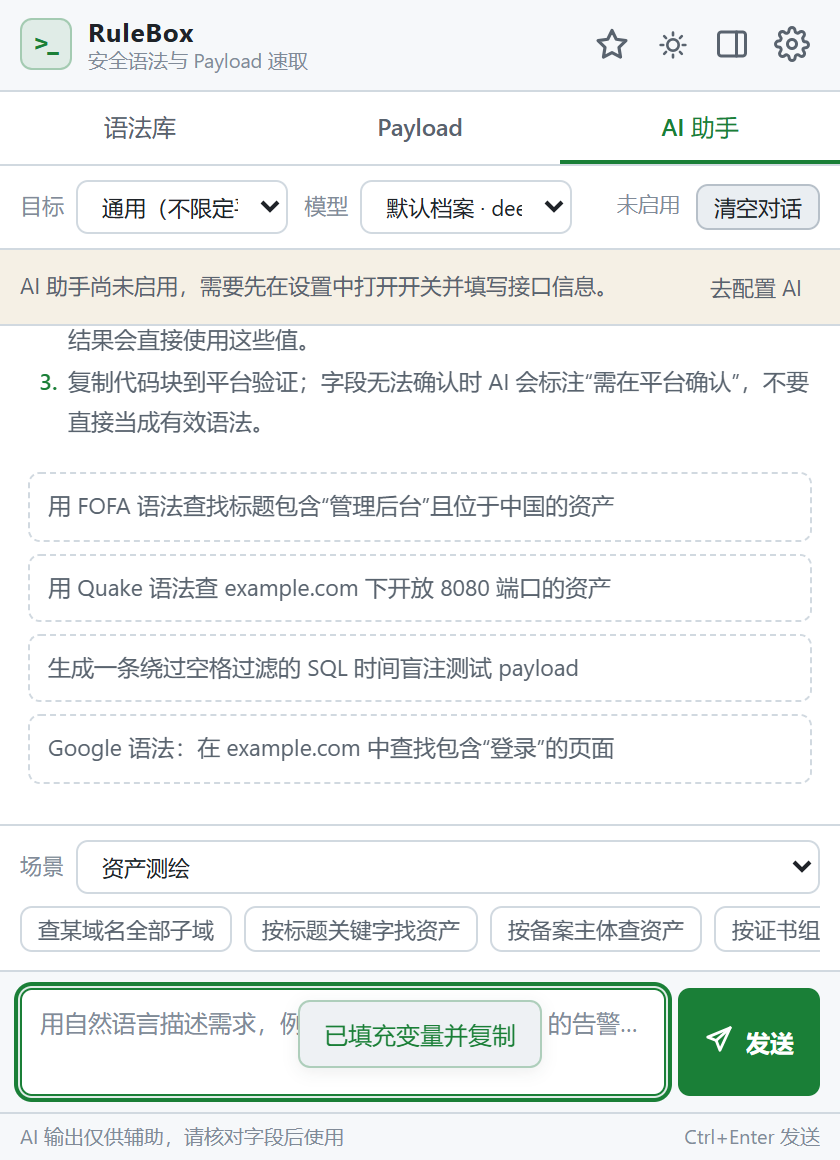
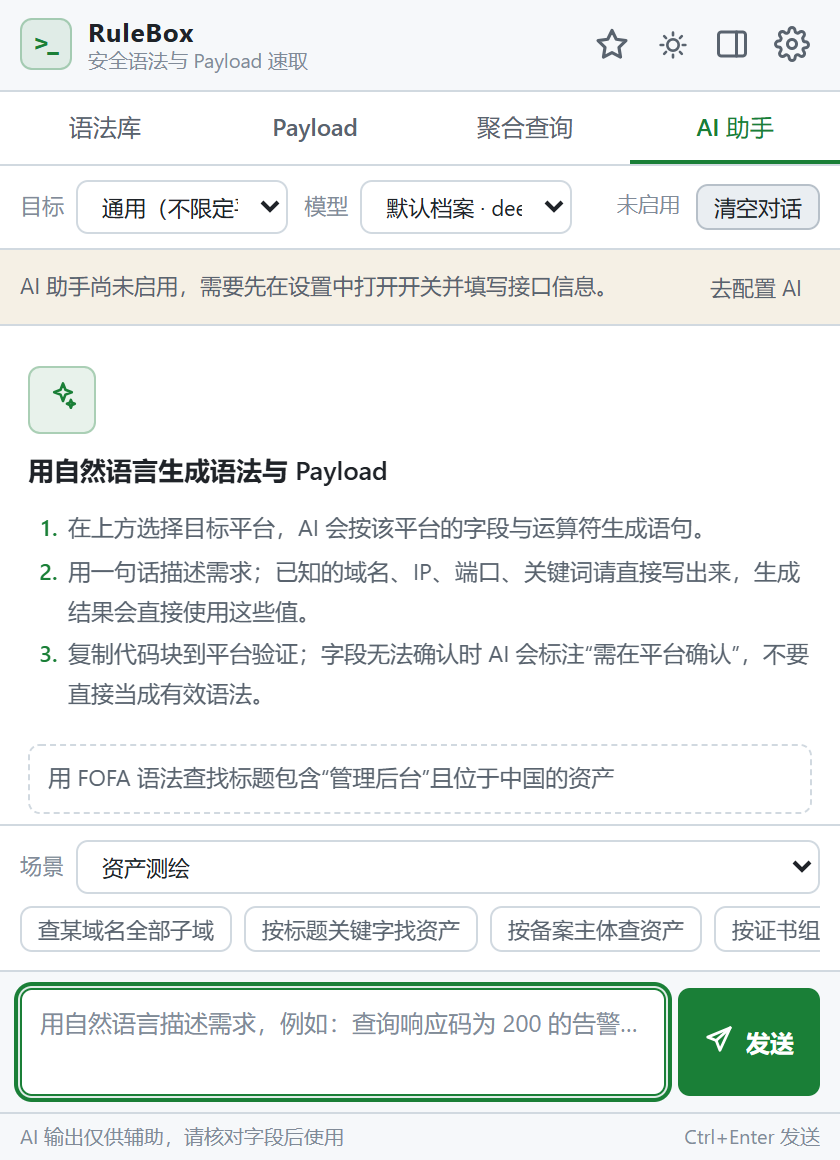
docs(README): 完善 2.0 文档并更新全部界面截图与演示动图
- README 补充 v2.0 新增能力说明：聚合查询、JSON/CSV/Markdown/TXT 多格式导出、
  默认打开方式（跟随上次使用 / 固定标签页）、配置重置问题修复
- 更新内置数据统计为 802 条语法 / 252 条 Payload / 20 条提示词
- 新增聚合查询、测绘查询设置分区、AI 助手等 2.0 界面截图（深色 + 浅色）
- 重新录制标签切换、变量填充、Payload 滚动三段演示动图，替换 1.0 旧动图
- README 增加聚合查询配置章节、git clone 安装方式与相关 FAQ
- 修正目录树章节中的语法库文件数量，同步导出能力说明
- 删除已过时的 AI 演示动图（旧界面为三标签，与 2.0 不一致）

diff --git a/docs/DEVELOPMENT.md b/docs/DEVELOPMENT.md
@@ -40,7 +40,7 @@ src\
 │   ├─ index.json                 # 数据索引（snippets/payloads 文件路径清单 + version + updated）
 │   ├─ platforms.json             # 平台注册表
 │   ├─ prompts.json               # AI 提示词库
-│   ├─ snippets\*.json            # 各平台语法库（11 个文件）
+│   ├─ snippets\*.json            # 各平台语法库（16 个文件）
 │   └─ payloads\*.json            # 各类 Payload 库（19 个文件）
 ├─ options\                       # 设置页 HTML/CSS
 ├─ popup\                         # 面板 HTML/CSS（popup 与 side panel 共用）
@@ -426,7 +426,7 @@ app.js bindAi → sendAi → requestAI（ai-client.js）
 ### 8.6 未来方向（已预留，未实现）
 
 - 更多国际测绘平台（Censys、Netlas、BinaryEdge、Criminal IP、FullHunt 等）与可配置的自定义 API 适配器。
-- 聚合结果导出（CSV / JSON）与查询历史（需先确认存储体积与隐私边界）。
+- 查询历史（需先确认存储体积与隐私边界）。聚合结果导出已实现，支持 JSON / CSV / Markdown / TXT 四种格式。
 
 ## 9. 变更纪律
 
